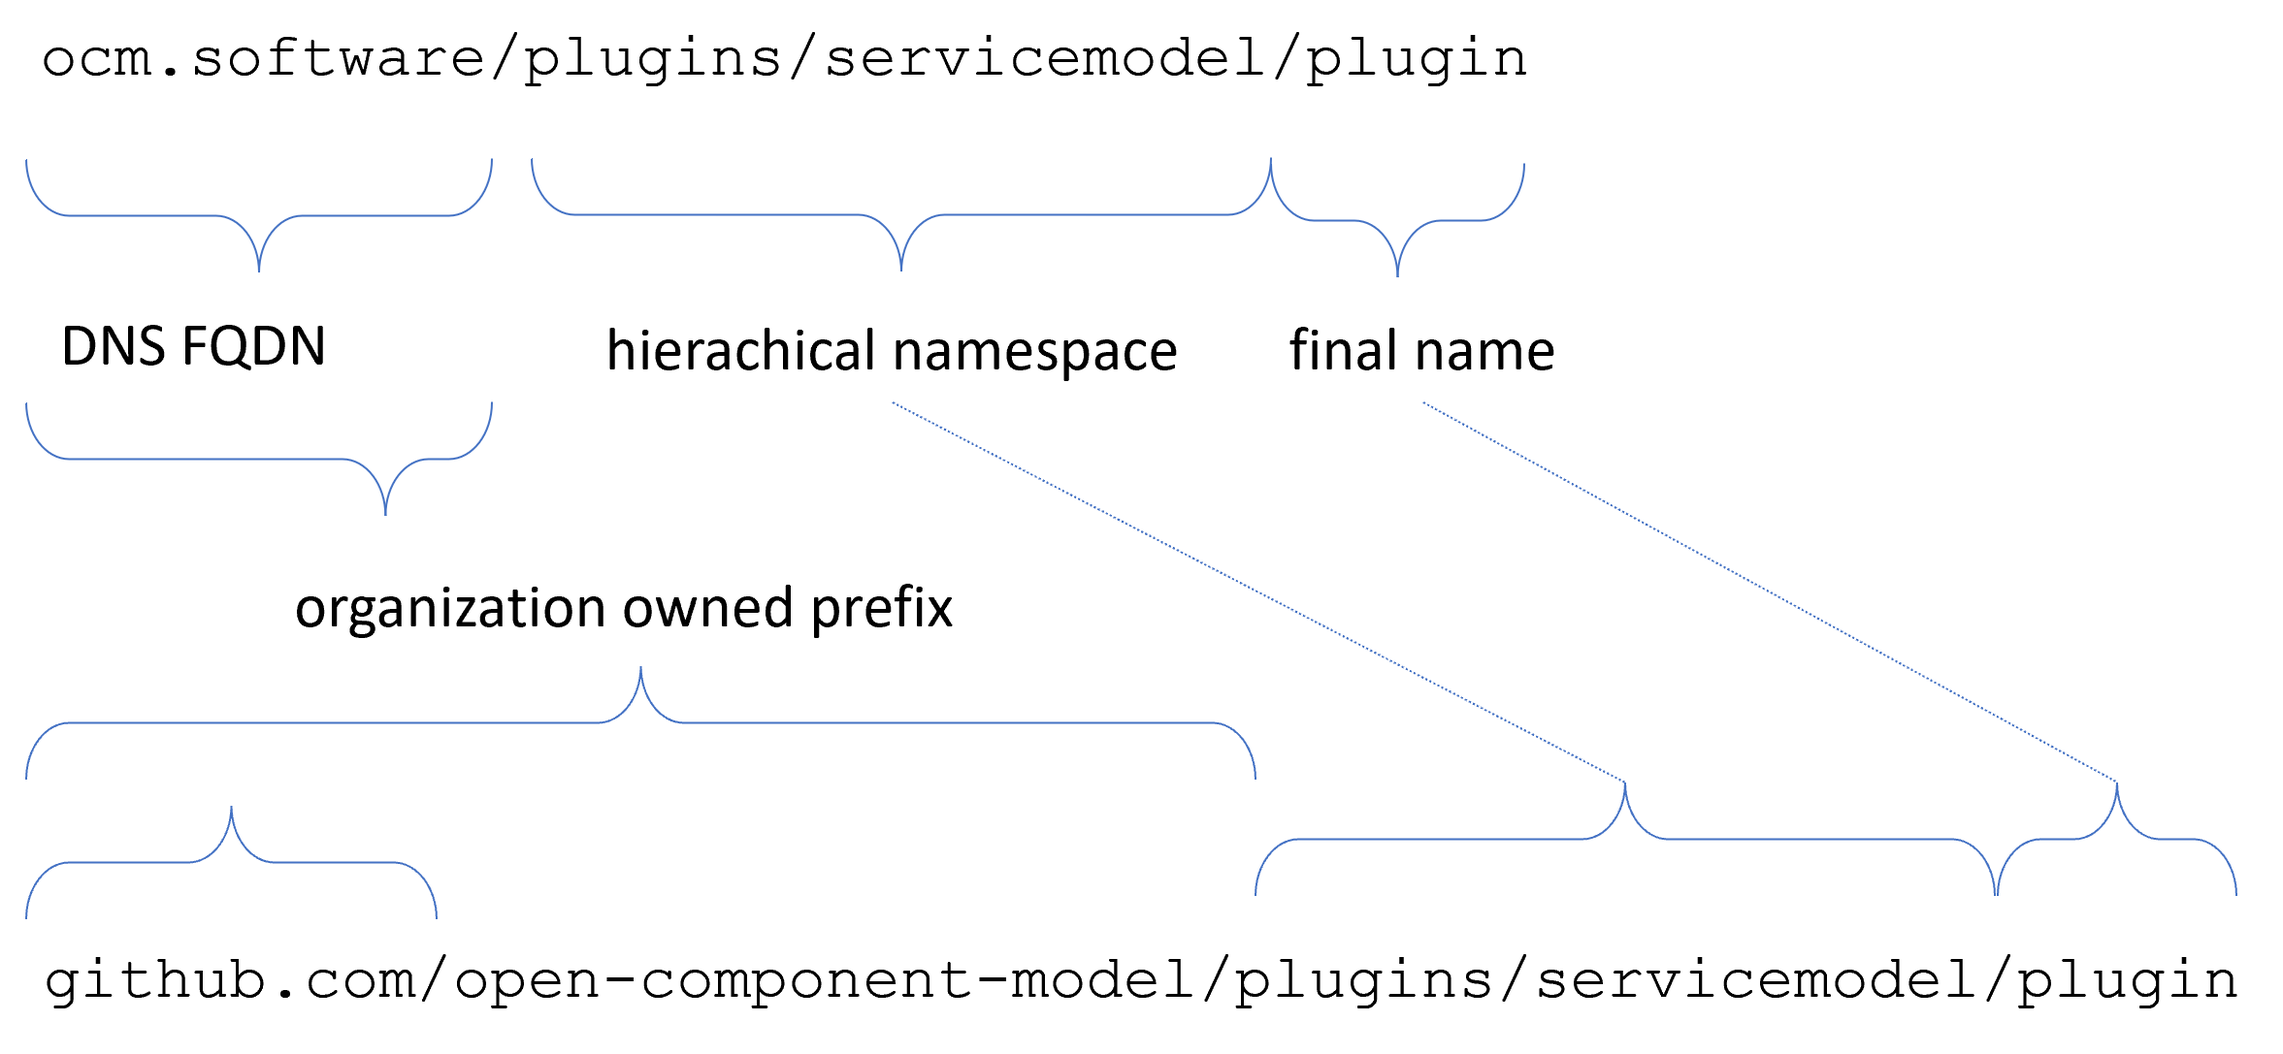
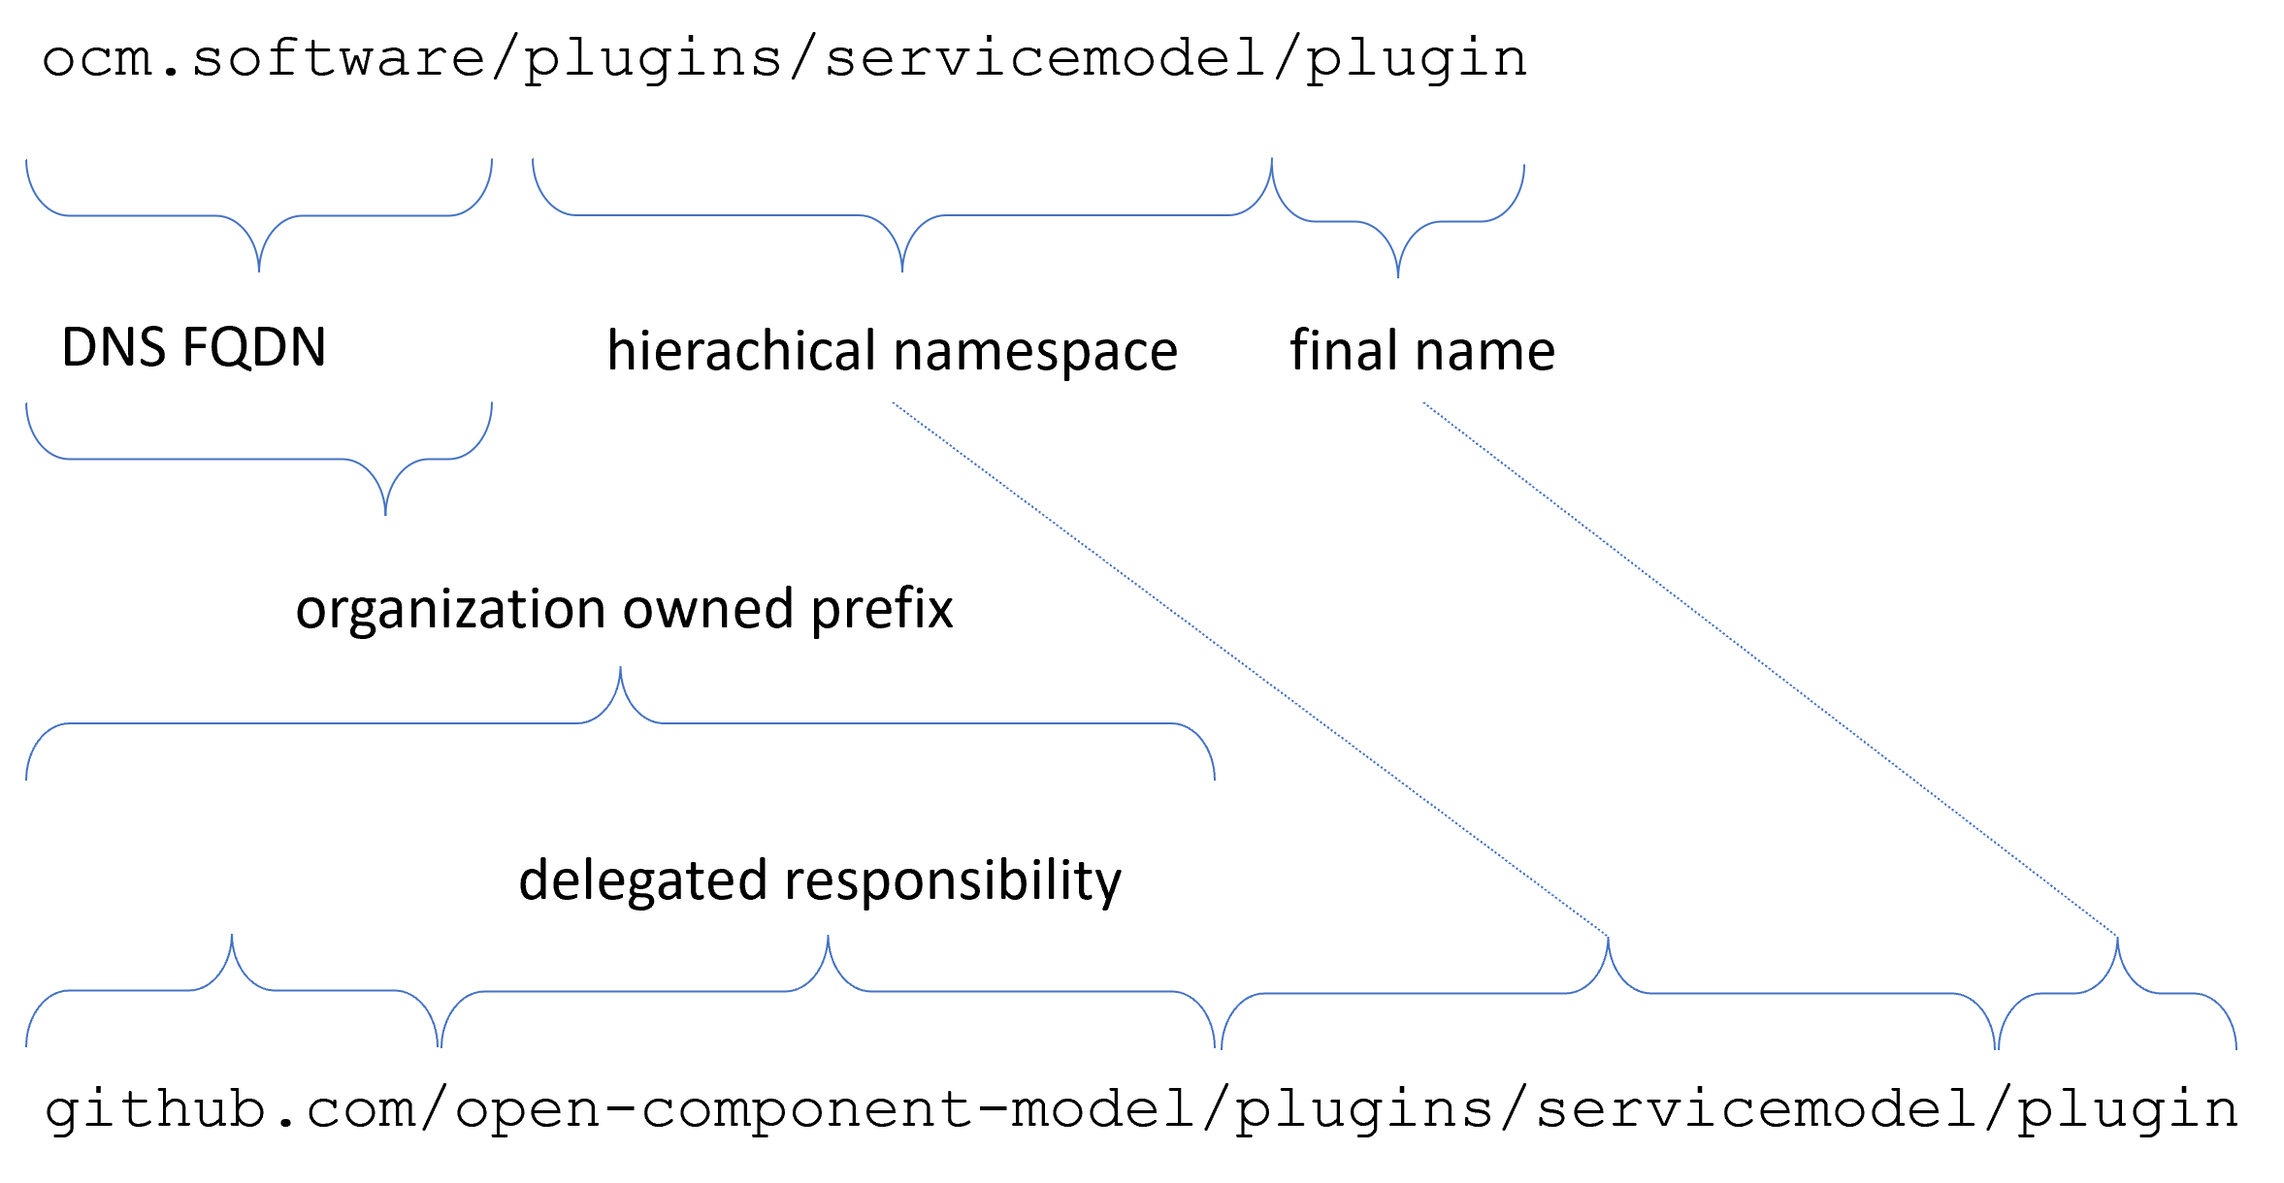
more rework for upper models

diff --git a/swmodels/rtmodel.md b/swmodels/rtmodel.md
@@ -1,24 +1,23 @@
 
-### The Runtime Model
+## The Runtime Model
 
 The last section just shows some gap between the definitions in a service model and the final technical landscape: not all implementations dependencies managed by a service provider must be (and potentially will not be) completely covered by the service model to avoid unnecessary complexity.
 
-Another reason for diverging landscapes are operators at the end of the definition level, which might create, switch or extend runtime entities on the fly. For example,
+Other reasons for diverging landscapes are operators at the end of the definition level, which might create, exchange or extend runtime entities on the fly. For example,
 Kubernetes `Deployment`s results in a sequence of `ReplicaSet`s, which dynamically
-create `Pod`s for scaling a failure handling.
+create `Pod`s for scaling or failure handling.
 
 Those elements will never (and cannot) be modeled at the level of the service or design time model. Nevertheless, it would be extremely helpful to be able to judge on
 an actual landscape state, whether it still meets the intended landscape, or whether
 there are elements not expected. This is proving extremely difficult.
 
 But even there, the described model hierarchy can help. First, a formal description
-of the effective technical landscape must be provided. THis direly leads to an additional model level: the runtime model.
+of the effective technical landscape must be provided. This directly leads to an additional model level: the runtime model.
 
-
-#### The Model
+### The Model
 
 The runtime model must be able to model all relevant runtime elements at an appropriate detail level. The general observation here is that every element in question is
-determined by another element is embedded into, stopping at some base elements, for which there is a conscious decision not to dive deeper. For example, we stop modeling at a VM level, deciding not to model hypervisors.
+determined by another element it is embedded into, stopping at some base elements, for which there is a conscious decision not to dive deeper. For example, we stop modeling at a VM level, deciding not to model hypervisors.
 
 This again results in a very simple model design.
 
@@ -30,42 +29,50 @@ It is basically oriented on the initial definition of a service (instance).
 
 There is one central element, the *Runtime Element* which runs on another element and may use other elements. All those elements are formally typed. For example, it can be a VM, a Pod, or a Database Scheme.
 
-Additionally, there is an *Abstract Element*, which reflects an expected type of runtime elements. Any dynamically maintained element can be related, directly or indirectly to such an element to describe the reason for its existence.
-For example, in Kubernetes it could represent a set of Pods and active execution unit of a service, created via the generation chain Deployment/ReplicatSet/Pod. The relations inside the chain of technically provided by the system and can be used to derive the relation to the expected abstract element of a service deployment.
+Additionally, there is an *Abstract Element*, which reflects an expected type of runtime element. Any dynamically maintained element can be related, directly or indirectly to such an element to reflkect the reason for its existence.
+For example, in Kubernetes it could represent a set of Pods or active execution unit of a service, created via the generation chain Deployment/ReplicatSet/Pod. The relations inside the chain are technically provided by the system and can be used to derive the relation to the expected abstract element of a service deployment.
 
 This directly leads to a tool environment required to derive such a model from concreate landscape elements. And here we found several possibilities to relate the runtime model with the upper model layers.
 
-#### Relation to upper Model
+### Relation to upper Model
 
-Any runtime element can directly be related to a service instance described by the design time model used to instantiate the landscape. This is the most obvious relation.
-Such a relation could, for example, be established by annotations on the technical elements (if supported). Even a relation to artifacts of the component model is partly possible. For example, an image intended to be published via the component model could be enriched already ba the build process by appropriate metadata.
+Any runtime element can be related to a service instance described by the design time model used to instantiate the landscape. This is the most obvious relation.
+Such a relation could, for example, be established by annotations on the technical elements (if supported). Even a relation to artifacts of the component model is partly possible. For example, an image intended to be published via the component model could be enriched already during the build process by appropriate metadata.
 
-So, every runtime element must be relatable to either a component, service or design time model element. This information can later be used by an outer tools to relate the runtime elements to appropriate design time model elements.
+So, every runtime element must be relatable to either a component, service or design time model element. This information can later be used by outer tools to relate the runtime elements to appropriate design time model elements.
 
 <p align="center">
 <img src="./media/runtime-model-relations.png" style="width:60%" />
 </p>
 
-But those relations are not generally possible, the only relations directly derivable from the landscape are the runs-on-relations. So, to setup a complete runtime model and correlate it with the desired design time model requires extensive tool support, heuristics and specialized analysis functionality.
+But those relations are not always generally possible, the only relations directly derivable from the landscape are the runs-on-relations. So, to set up a complete runtime model and correlate it with the desired design time model requires extensive tool support, heuristics and specialized analysis functionality.
 
+### The Tooling
 
-#### The Tooling
-
-First of all, the elements of the runtime model must be held in a runtime repository.
+First of all, the elements of the runtime model must be held in a runtime repository to be directly  accessible by the required tooling
 It is fed by different sources:
 - specialized runtime observers report the existence of technical elements and their runs-on relation
 - the observer extracts relations part of the metadata.
 - directly generated or expected abstract elements can directly be created by the installation environment.
-- the installation environments try to enrich directly deployed elements with appropriate metadata usable to establish a link to the  design time model elements they are created for.
+- the installation environments tries to enrich directly deployed elements with appropriate metadata usable to establish a link to the design time model elements they are created for.
 
 On-top of this, analysis tools can be used trying to use the available information to establish relations to abstract runtime elements or even elements of higher models.
-For example, if a pod is created from an image known to be provided by a dedicated component of he component model, which is deployed as part of a service described by the service model, it must belong to a particular service kind. If then the deployment of a service instance according to the design time model is using a separate namespace in Kubernetes, the Pod can be assigned to this service. The more assignment paths are found the more plausible is such a derived relation.
+For example, if a pod is created from an image known to be provided by a dedicated component version of the component model, which is deployed as part of a service described by the service model, it must belong to a particular service kind. If then the deployment of a service instance according to the design time model is using a separate namespace in Kubernetes, the Pod can be assigned to this service. The more assignment paths are found the more plausible is such a derived relation.
 
 <p align="center">
 <img src="./media/runtime-correlation.png" style="width:70%" />
 </p>
 
 This analysis environment must be highly configurable and extensible. This could, for example, be achieved by using plugin artifacts described as part of the component model and assigned by the service model.
+
+### Summary
+
+The run time model is derived by various tools and from various sources:
+- the elements itself and their runtime-embedding directly from the landcape
+- installers providing link information
+- installers directly handle explicitly created runtime elements
+- analysis tools following generations chains or
+- correlating combinations of elements with desired design time elements
 
 The result is a runtime model usable to find unrelated runtime elements and following up the model hierarchy to relate runtime elements with delivery artifacts and components.
 Using the enhanced analysis and reporting capabilities of the analysis gear on top of the component model, it is then possible to figure out involved software, including libraries, versions, vulnerabilities and triage information.

diff --git a/swmodels/dtmodel.md b/swmodels/dtmodel.md
@@ -9,7 +9,6 @@ Similar to the service model, the central and basically sole element of the desi
 - installation dependency to a service provider server or an installation service.
 - dependency to a runtime (could be a regular service) if not handled by the installation.
 
-
 <p align="center">
 <img src="./media/designtime-model.png" style="width:50%" />
 </p>
@@ -54,20 +53,27 @@ a formal declaration of the required configuration (not yet part of the model).
 This could be explicit elements, or it is mapped to annotation values.
 
 To provide the possibility for a complete automation, there must also be tooling
-able to apply such settings in a concrete setting. This could, for example, be
-plugins for a landscape installation system (see below), which are again expressed as
+able to transform such settings into a concrete technology-specific configuration.
+This could be, for example, plugins for a landscape installation system (see below), which are again expressed as
 artifacts in the component model referenced by the service model elements.
 
 ### The Tooling
 
 The previous section just opens the door for some useful tool support.
 
-#### Landscape Modeller
+#### Landscape Modeler
+
 Besides the repository, a *landscape modeler* could be provided. It provides
-and API (or UI) for the landscape designer assisting in providing a complete, valid and consistent landscape setup.
+an API (or UI) for the landscape designer assisting in providing a complete, valid and consistent landscape setup.
+
+
+<p align="center">
+<img src="media/landscape-resolve.png" style="width:70%" />
+</p>
+
 It uses the service model (available via the service model repository) to
 offer choices for the intended service instances. In a second step
-it can evaluate the dependencies and offer possibilities how to complete the
+it can evaluate the dependencies and offer possibilities, how to complete the
 setup. Depending on the content of the service model repository, this could be
 - directly implied services and installers, or
 - it offers possibilities to resolve dependencies by service instances already existing in the landscape or to create new ones.
@@ -80,15 +86,15 @@ setup. Depending on the content of the service model repository, this could be
 In the example shown above, the service repository contains an installer and a service provider for the initially intended service instance. The designer now has the choice,
 he decides for the provider solution, because there will be multiple such instances in the future. Now, this provider requires some other service, leaving the option for different implementations by describing a contract dependency. But the available service model
 contains only one possible matching service, which can automatically be added.
-Or the designed decides to make some other service option available, for example,
-by browsing a marketplace to look for and buy some other solution. This one the  also contains a service model description, which will be added to the service model repository.
-After this it is available for landscape modeler, which now can
+Or the designer decides to make some other service option available, for example,
+by browsing a marketplace to look for and buy some other solution. This one then also contains a service model description, which will be added to the service model repository.
+After this, it is available for the landscape modeler, which now can
 offer multiple possibilities for resolving the contract dependency.
 
 #### The Landscape Installation System
 
-For the design time model to technically relevant, it must somehow automatically
-be mapped to some operation environment. There might be several levels of support
+For the design time model to be technically relevant, it must somehow automatically
+be mapped to some operational environment. There might be several levels of support
 - mapping the landscape model into a Git-Ops project setup, which must be completed by the landscape admin.
 - directly mapping the landscape model into deployments,
 
@@ -96,7 +102,7 @@ The tool for the second possibility could be a *Landscape Installation System*.
 The task is quite complex and heterogeneous, but it could significantly be simplified
 by generally relying on some declarative ordering environment, as proposed by the *Apeiro Reference Architecture*.
 
-A second simplication could be to rely on Kubernetes-like execution environments and standardize installers to be implemented by *Kubernetes Operators*.
+A second simplication could be to rely on Kubernetes-like execution environments and standardized installers to be implemented by *Kubernetes Operators*.
 
 The task of a generic installation system is then just to deploy operator and
 resources to instruct the operator to deploy an instance. The latter part is basically
@@ -109,7 +115,7 @@ artifact in the component model (which is already formalized), and the plugins f
 
 To be able to work, service providers must be able to interact with each other.
 This typically requires authentication and permissions. A landscape installation system
-must therefore fall back to another tool, a *service account management*. This must be standardized, to enable the installation system to request service accounts for service provides automatically passed to using services as part of the service provider orchestration.
+must therefore fall back to another tool, a *service account management*. This must be standardized to enable the installation system to request service accounts for service providers automatically passed to using services as part of the service provider orchestration.
 
 
 #### Maintenace Optimizer
@@ -119,19 +125,19 @@ must therefore fall back to another tool, a *service account management*. This m
 </p>
 
 But the landscape installation system could do even more than just initially setting up a landscape.
-It should keep the design time model in an own version describing the current state of the landscape. Whenever no the intended landscape is changed by the landscape designer,
+It should keep the design time model in an own version describing the current state of the landscape. Whenever now the intended landscape is changed by the landscape designer,
 it can determine a delta and apply appropriate changes to the real technical landscape.
 Hereby, version constraints described by the service model can be used to propose
 and schedule upgrade paths.
 
-The result is then a deployment landscape consisting of the service instances described by the design time model plus implicitly creates service instances for implementation dependencies manged by the service providers, which could be described by the service model. It is important to note here that this description must be complete in terms
-of the modeled service dependencies. But especially implementation dependencies must not necessarily be modeled in all details.
+The result is then a deployment landscape consisting of the service instances described by the design time model plus implicitly created service instances for implementation dependencies manged by the service providers, which could be described by the service model. It is important to note here that this description must be complete in terms
+of the modeled service dependencies. But especially implementation dependencies must not necessarily be modeled in all details, because the can be handled internally, evan by an appropriate installer or service provider.
 
 ### Summary
 
 The design time model is able to completely describe an intended service landscape.
-Together with the [service model](svmodel.md) it allows validating the completenes and consistency of such a landscape. The service model information ca also be used to
+Together with the [service model](svmodel.md) it allows validating the completeness and consistency of such a landscape. The service model information can also be used to
 get all the necessary dependencies and find implementation proposals for services required to resolve them. Together with the [component model](swmodel.md) it is possible
 to derive installation guidelines or even complete installations using such environments like a landscape installation system and a service account management.
 
-Even without a runtime model, it is possible to gain information what software will be or should be part of a described landscape description, why it is required and where it is used.
+Even without a runtime model, it is possible to gain information about which software will be or should be part of a described landscape description, why it is required and where it is used.

diff --git a/swmodels/responsibilities.md b/swmodels/responsibilities.md
@@ -1,0 +1,14 @@
+## Responsibility tracking
+
+In simplified environments using declarative order models like the Kubernetes Resource Model (KRM), every in the runtime is basically requested by some digital twin in 
+the used dataplane. The link between the request object and the generated resources
+can be provided by the responsible controller, as status in the request or annotations
+in the runtime environment. Even in hierarchical generation scenarios this information
+can be tracked back to the originating resource.
+
+Every request object lives in an organizational context, a workspace in KCP or 
+a namespace in a regular Kubernetes dataplane. Such a context represents the organizational
+unit finally responsible for the creation of all subsequent resources and therefore for the effective elements in the various involved runtimes.
+
+Using the audit information provided by such a dataplane it is even possible to track down
+to dedicated users working on the request level.
